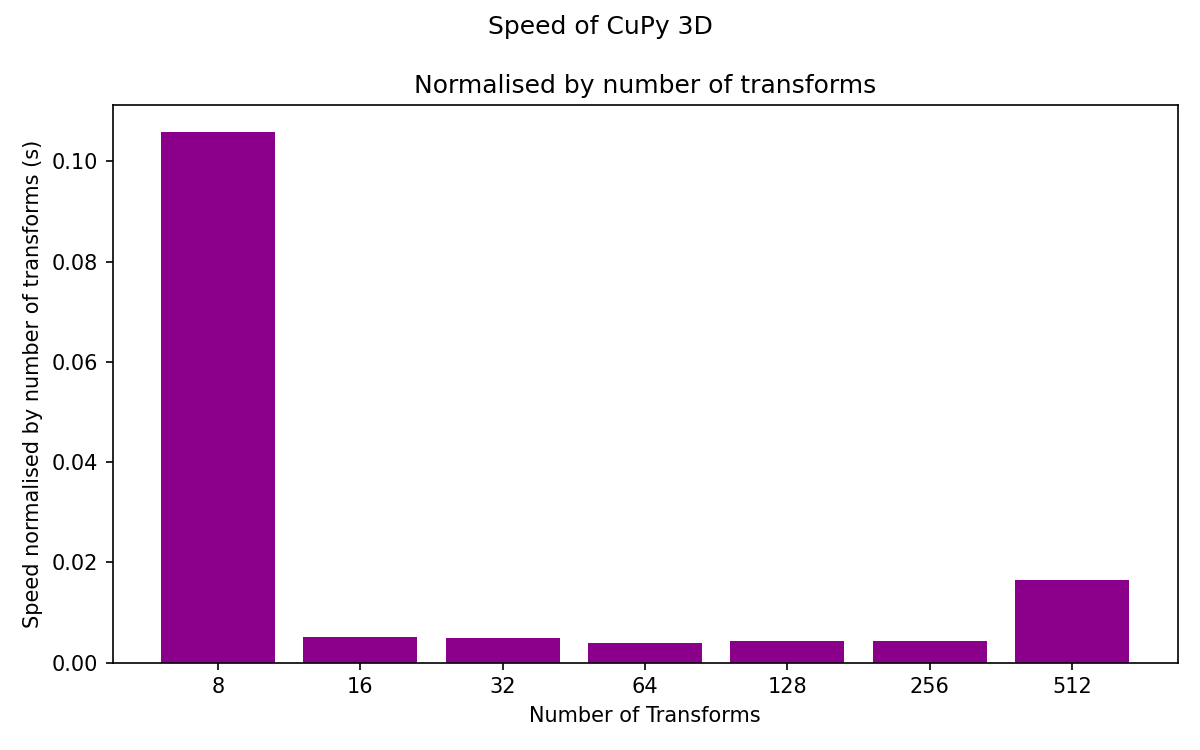
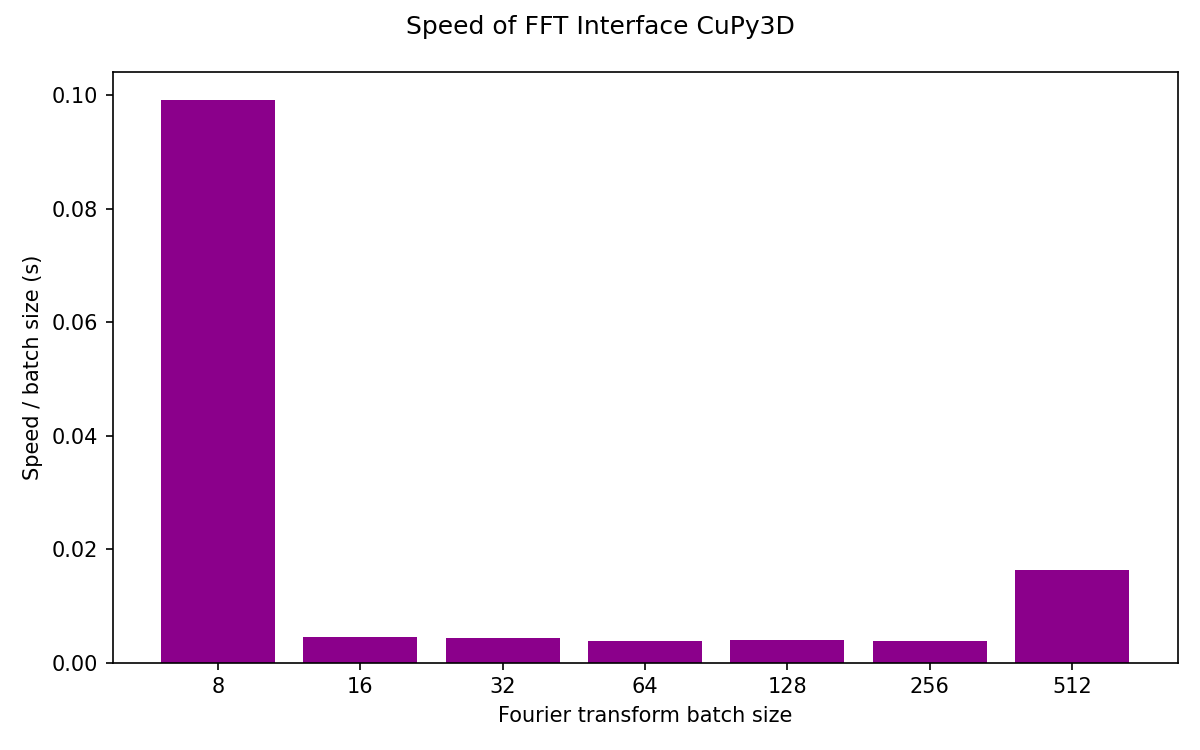
docs: update figure labels; ci: correct github actions syntax

diff --git a/examples/fft_cupy3d_speed.py b/examples/fft_cupy3d_speed.py
@@ -1,9 +1,11 @@
 """Fourier Transform speeds for the Cupy 3D interface
 
-This example visualizes the normalised speed for different 3D image stacks for
-the `FFTFilterCupy3D` FFT Filter
+This example visualizes the speed for different batch sizes for
+the `FFTFilterCupy3D` FFT Filter. The y-axis shows the speed of a single
+FFT for the corresponding batch size.
 
-- Optimum stack size for 256 images (incl. padding) is bewteen 128 and 256.
+- Optimum batch size is between 64 and 256 for 256x256pix images (incl. padding).
+- Here, batch size is the size of the 3D stack in z.
 
 """
 import time
@@ -54,11 +56,10 @@ ax1 = axes
 
 ax1.bar(range(len(n_transforms_list)), height=speed_norm, color='darkmagenta')
 ax1.set_xticks(range(len(n_transforms_list)), labels=n_transforms_list)
-ax1.set_xlabel("Number of Transforms")
-ax1.set_ylabel("Speed normalised by number of transforms (s)")
-ax1.set_title(f"Normalised by number of transforms")
+ax1.set_xlabel("Fourier transform batch size")
+ax1.set_ylabel("Speed / batch size (s)")
 
-plt.suptitle("Speed of CuPy 3D")
+plt.suptitle("Speed of FFT Interface CuPy3D")
 plt.tight_layout()
-# plt.show()
-plt.savefig("fft_cupy3d_speed.png", dpi=150)
+plt.show()
+# plt.savefig("fft_cupy3d_speed.png", dpi=150)
